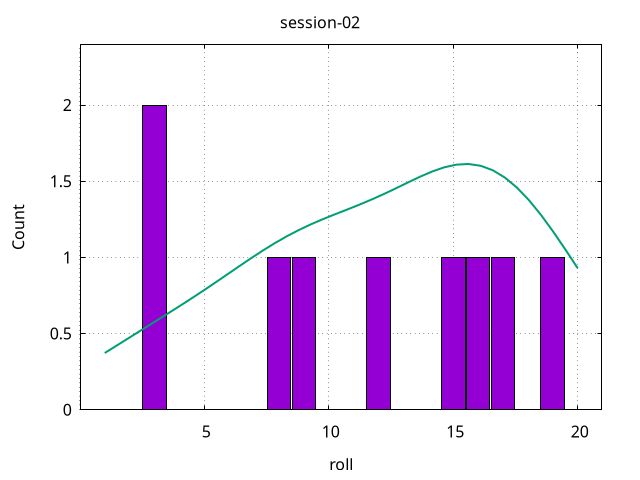
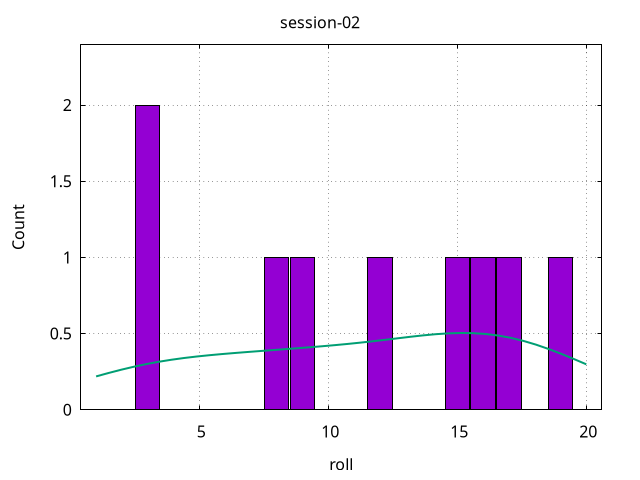
Regenerate statistics after fixing csvizmo statistics bugs
https://github.com/Notgnoshi/csvizmo/pull/84

diff --git a/README.md b/README.md
@@ -23,7 +23,7 @@ and the overall statistics:
 
 | count | mean | stddev | Q1 | median | Q3 |
 | ----- | ---- | ------ | -- | ------ | -- |
-| 317   | 9.67 | 5.92   | 4  | 9      | 15 |
+| 317   | 9.67 | 5.80   | 4  | 9      | 15 |
 
 # Campaign Statistics
 
@@ -37,9 +37,9 @@ and the per-session statistics:
 
 | session                                                       | count | mean  | stddev | Q1   | median | Q3    |
 | ------------------------------------------------------------- | ----- | ----- | ------ | ---- | ------ | ----- |
-| aggregate                                                     | 18    | 10.83 | 7.53   | 4    | 11     | 16    |
-| [session-01](figures/angel/sessions/session-01-histogram.png) | 9     | 10.33 | 9.04   | 3.50 | 10     | 15.50 |
-| [session-02](figures/angel/sessions/session-02-histogram.png) | 9     | 11.33 | 9.62   | 5.50 | 12     | 16.50 |
+| aggregate                                                     | 18    | 10.83 | 5.96   | 4    | 11     | 16    |
+| [session-01](figures/angel/sessions/session-01-histogram.png) | 9     | 10.33 | 6.30   | 3.50 | 10     | 15.50 |
+| [session-02](figures/angel/sessions/session-02-histogram.png) | 9     | 11.33 | 5.94   | 5.50 | 12     | 16.50 |
 
 ## one-shot-gang statistics
 
@@ -51,8 +51,8 @@ and the per-session statistics:
 
 | session                                                               | count | mean | stddev | Q1 | median | Q3 |
 | --------------------------------------------------------------------- | ----- | ---- | ------ | -- | ------ | -- |
-| aggregate                                                             | 21    | 9    | 6.73   | 2  | 9      | 15 |
-| [session-01](figures/one-shot-gang/sessions/session-01-histogram.png) | 21    | 9    | 6.73   | 2  | 9      | 15 |
+| aggregate                                                             | 21    | 9    | 6.39   | 2  | 9      | 15 |
+| [session-01](figures/one-shot-gang/sessions/session-01-histogram.png) | 21    | 9    | 6.39   | 2  | 9      | 15 |
 
 ## tyranny-of-dragons-1 statistics
 
@@ -64,25 +64,25 @@ and the per-session statistics:
 
 | session                                                                      | count | mean  | stddev | Q1   | median | Q3   |
 | ---------------------------------------------------------------------------- | ----- | ----- | ------ | ---- | ------ | ---- |
-| aggregate                                                                    | 278   | 9.64  | 5.84   | 5    | 9      | 15   |
-| [session-01](figures/tyranny-of-dragons-1/sessions/session-01-histogram.png) | 24    | 9.79  | 6.93   | 3.50 | 10     | 13   |
-| [session-02](figures/tyranny-of-dragons-1/sessions/session-02-histogram.png) | 21    | 9.57  | 5.80   | 5    | 8      | 14   |
-| [session-03](figures/tyranny-of-dragons-1/sessions/session-03-histogram.png) | 14    | 11.07 | 7.21   | 8    | 11     | 15   |
-| [session-04](figures/tyranny-of-dragons-1/sessions/session-04-histogram.png) | 22    | 10.64 | 7.97   | 5    | 10     | 16   |
-| [session-05](figures/tyranny-of-dragons-1/sessions/session-05-histogram.png) | 31    | 8.84  | 6.42   | 4    | 8      | 14   |
-| [session-06](figures/tyranny-of-dragons-1/sessions/session-06-histogram.png) | 23    | 9.26  | 6.30   | 6    | 8      | 13   |
-| [session-07](figures/tyranny-of-dragons-1/sessions/session-07-histogram.png) | 18    | 12.78 | 6.68   | 9    | 15     | 17   |
-| [session-08](figures/tyranny-of-dragons-1/sessions/session-08-histogram.png) | 26    | 6.92  | 5.09   | 2    | 6      | 10   |
-| [session-09](figures/tyranny-of-dragons-1/sessions/session-09-histogram.png) | 4     | 14.50 | 11.76  | 11   | 16     | 18   |
-| [session-10](figures/tyranny-of-dragons-1/sessions/session-10-histogram.png) | 11    | 8     | 6.40   | 4    | 7      | 13   |
-| [session-11](figures/tyranny-of-dragons-1/sessions/session-11-histogram.png) | 10    | 11.60 | 7.96   | 5    | 14.50  | 15   |
-| [session-12](figures/tyranny-of-dragons-1/sessions/session-12-histogram.png) | 2     | 7     | 6.32   |      |        |      |
-| [session-13](figures/tyranny-of-dragons-1/sessions/session-13-histogram.png) | 11    | 8.64  | 5.16   | 6    | 10     | 12   |
-| [session-14](figures/tyranny-of-dragons-1/sessions/session-14-histogram.png) | 15    | 7.07  | 5.62   | 3    | 6      | 10   |
-| [session-15](figures/tyranny-of-dragons-1/sessions/session-15-histogram.png) | 7     | 10.86 | 9.04   | 5    | 10     | 17   |
-| [session-16](figures/tyranny-of-dragons-1/sessions/session-16-histogram.png) | 24    | 10.62 | 7.06   | 5.50 | 12     | 17   |
-| [session-17](figures/tyranny-of-dragons-1/sessions/session-17-histogram.png) | 4     | 6.25  | 7.15   | 3    | 6.50   | 9.50 |
-| [session-18](figures/tyranny-of-dragons-1/sessions/session-18-histogram.png) | 11    | 11.36 | 9.64   | 4    | 14     | 19   |
+| aggregate                                                                    | 278   | 9.64  | 5.75   | 5    | 9      | 15   |
+| [session-01](figures/tyranny-of-dragons-1/sessions/session-01-histogram.png) | 24    | 9.79  | 6.28   | 3.50 | 10     | 13   |
+| [session-02](figures/tyranny-of-dragons-1/sessions/session-02-histogram.png) | 21    | 9.57  | 5.20   | 5    | 8      | 14   |
+| [session-03](figures/tyranny-of-dragons-1/sessions/session-03-histogram.png) | 14    | 11.07 | 4.57   | 8    | 11     | 15   |
+| [session-04](figures/tyranny-of-dragons-1/sessions/session-04-histogram.png) | 22    | 10.64 | 6.42   | 5    | 10     | 16   |
+| [session-05](figures/tyranny-of-dragons-1/sessions/session-05-histogram.png) | 31    | 8.84  | 5.38   | 4    | 8      | 14   |
+| [session-06](figures/tyranny-of-dragons-1/sessions/session-06-histogram.png) | 23    | 9.26  | 5.52   | 6    | 8      | 13   |
+| [session-07](figures/tyranny-of-dragons-1/sessions/session-07-histogram.png) | 18    | 12.78 | 5.89   | 9    | 15     | 17   |
+| [session-08](figures/tyranny-of-dragons-1/sessions/session-08-histogram.png) | 26    | 6.92  | 4.83   | 2    | 6      | 10   |
+| [session-09](figures/tyranny-of-dragons-1/sessions/session-09-histogram.png) | 4     | 14.50 | 4.73   | 11   | 16     | 18   |
+| [session-10](figures/tyranny-of-dragons-1/sessions/session-10-histogram.png) | 11    | 8     | 5.66   | 4    | 7      | 13   |
+| [session-11](figures/tyranny-of-dragons-1/sessions/session-11-histogram.png) | 10    | 11.60 | 6.69   | 5    | 14.50  | 15   |
+| [session-12](figures/tyranny-of-dragons-1/sessions/session-12-histogram.png) | 2     | 7     | 1.41   |      |        |      |
+| [session-13](figures/tyranny-of-dragons-1/sessions/session-13-histogram.png) | 11    | 8.64  | 4.20   | 6    | 10     | 12   |
+| [session-14](figures/tyranny-of-dragons-1/sessions/session-14-histogram.png) | 15    | 7.07  | 4.99   | 3    | 6      | 10   |
+| [session-15](figures/tyranny-of-dragons-1/sessions/session-15-histogram.png) | 7     | 10.86 | 6.20   | 5    | 10     | 17   |
+| [session-16](figures/tyranny-of-dragons-1/sessions/session-16-histogram.png) | 24    | 10.62 | 6.27   | 5.50 | 12     | 17   |
+| [session-17](figures/tyranny-of-dragons-1/sessions/session-17-histogram.png) | 4     | 6.25  | 4.27   | 3    | 6.50   | 9.50 |
+| [session-18](figures/tyranny-of-dragons-1/sessions/session-18-histogram.png) | 11    | 11.36 | 7.16   | 4    | 14     | 19   |
 
 # FAQ
 
